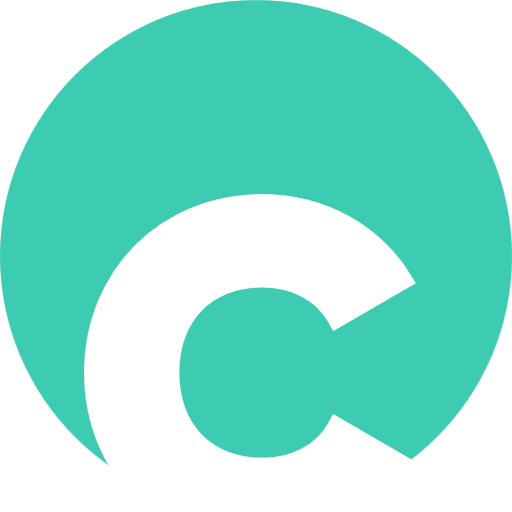
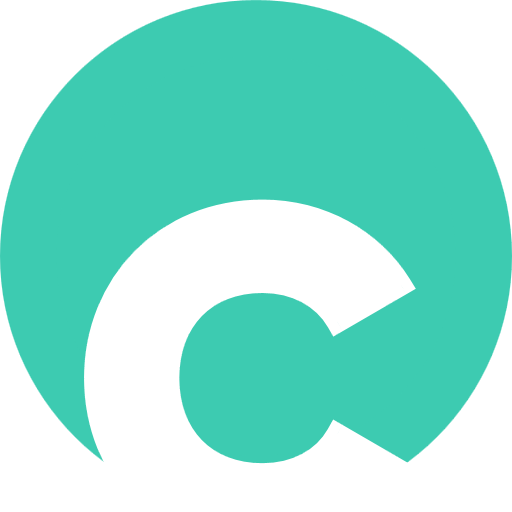
Adds footer and updates styling
Adds a footer component to the main layout, improving the overall user experience.  Updates the global CSS with new color variables and styling adjustments for improved visual consistency.  Also updates the logo component and several icons.

diff --git a/src/components/navigation/footer.tsx b/src/components/navigation/footer.tsx
@@ -1,9 +1,61 @@
+import { FaTelegramPlane } from 'react-icons/fa';
+
+import Link from 'next/link';
+
+import Logo from '../reusable/logo';
+
 interface FooterProps {}
 
 const Footer = ({}: FooterProps) => {
     return (
-        <div>
-            <h1>Footer</h1>
+        <div className="bg-surface-dark max-h-[302px] h-full flex flex-col justify-between">
+            <div className="max-w-[1208px] grid grid-cols-4 mx-auto xl:px-0 px-8 pt-[40px] w-full">
+                <Logo whiteText />
+                <ul className="text-white space-y-4">
+                    <li className="text-lg">
+                        <Link href={'/'}>Веб-программирование</Link>
+                    </li>
+                    <li>
+                        <Link href={'/'}>Разработка мобильных приложений</Link>
+                    </li>
+                    <li>
+                        <Link href={'/'}>Java: Новичок</Link>
+                    </li>
+                    <li>
+                        <Link href={'/'}>PHP: Новичок</Link>
+                    </li>
+                </ul>
+                <ul className="text-white space-y-4">
+                    <li className="text-lg">
+                        <Link href={'/'}>Adobe Illustrator</Link>
+                    </li>
+                    <li>
+                        <Link href={'/'}>Adobe Photoshop</Link>
+                    </li>
+                    <li>
+                        <Link href={'/'}>Design Logo</Link>
+                    </li>
+                </ul>
+                <ul className="text-white space-y-4">
+                    <li className="text-lg">
+                        <Link href={'/'}>Написание курса</Link>
+                    </li>
+                    <li>
+                        <Link href={'/'}>Фото-редактирование</Link>
+                    </li>
+                    <li>
+                        <Link href={'/'}>Монтаж видео</Link>
+                    </li>
+                </ul>
+            </div>
+            <div className="max-w-[1208px] flex justify-between items-center mx-auto text-white-90 pb-4 w-full">
+                <p>Copyright © {new Date().getFullYear()} Code Horizon. All rights reserved.</p>
+                <div className="flex items-center gap-4">
+                    <Link href={'https://t.me/makkenz0'} className="group" target="_blank">
+                        <FaTelegramPlane className="size-[20px] text-white-90 group:hover:text-white" />
+                    </Link>
+                </div>
+            </div>
         </div>
     );
 };

diff --git a/src/components/reusable/logo.tsx b/src/components/reusable/logo.tsx
@@ -1,17 +1,20 @@
+import Image from 'next/image';
 import Link from 'next/link';
 
-interface LogoProps {}
+import { cn } from '@/lib/utils';
 
-const Logo = ({}: LogoProps) => {
+interface LogoProps {
+    whiteText?: boolean;
+}
+
+const Logo = ({ whiteText }: LogoProps) => {
     return (
         <Link href={'/'}>
             <div className="flex items-center gap-2 w-fit">
-                <div className="relative bg-primary size-[43px] rounded-full">
-                    <span className="absolute -bottom-[2px] overflow-hidden leading-[34px] left-[48%] translate-x-[-50%] text-white text-sm font-bold text-[60px] select-none">
-                        c
-                    </span>
-                </div>
-                <span className="text-xl font-bold select-none translate-y-0.5">CodeHorizon</span>
+                <Image src="/logo.svg" alt="CodeHorizon" width={40} height={40} />
+                <span className={cn('text-xl font-bold select-none translate-y-0.5', whiteText && 'text-white')}>
+                    CodeHorizon
+                </span>
             </div>
         </Link>
     );

diff --git a/src/app/(main)/layout.tsx b/src/app/(main)/layout.tsx
@@ -1,3 +1,4 @@
+import Footer from '@/components/navigation/footer';
 import Header from '@/components/navigation/header';
 
 export default function Layout({ children }: { children: React.ReactNode }) {
@@ -6,6 +7,7 @@ export default function Layout({ children }: { children: React.ReactNode }) {
             <div className="relative flex h-dvh max-h-dvh w-screen max-w-[100dvw] flex-col overflow-y-auto overflow-x-hidden bg-background-contrast dark:bg-background">
                 <Header />
                 <div className="flex-1">{children}</div>
+                <Footer />
             </div>
         </>
     );

diff --git a/src/app/globals.css b/src/app/globals.css
@@ -78,6 +78,7 @@
         --radius: 14px;
 
         --white-90: 0 0% 97.65%;
+        --surface-dark: 0 0% 10.59%;
     }
 
     .dark {
@@ -144,6 +145,7 @@
     --radius: 14px;
 
     --white-90: hsl(0 0% 97.65%);
+    --surface-dark: hsl(0 0% 10.59%);
 }
 
 .dark {
@@ -205,6 +207,7 @@
     --color-chart-3: var(--chart-3);
     --color-chart-4: var(--chart-4);
     --color-chart-5: var(--chart-5);
+    --color-surface-dark: var(--surface-dark);
     --radius-sm: calc(var(--radius) - 2px);
     --radius-md: var(--radius);
     --radius-lg: calc(var(--radius) + 4px);
